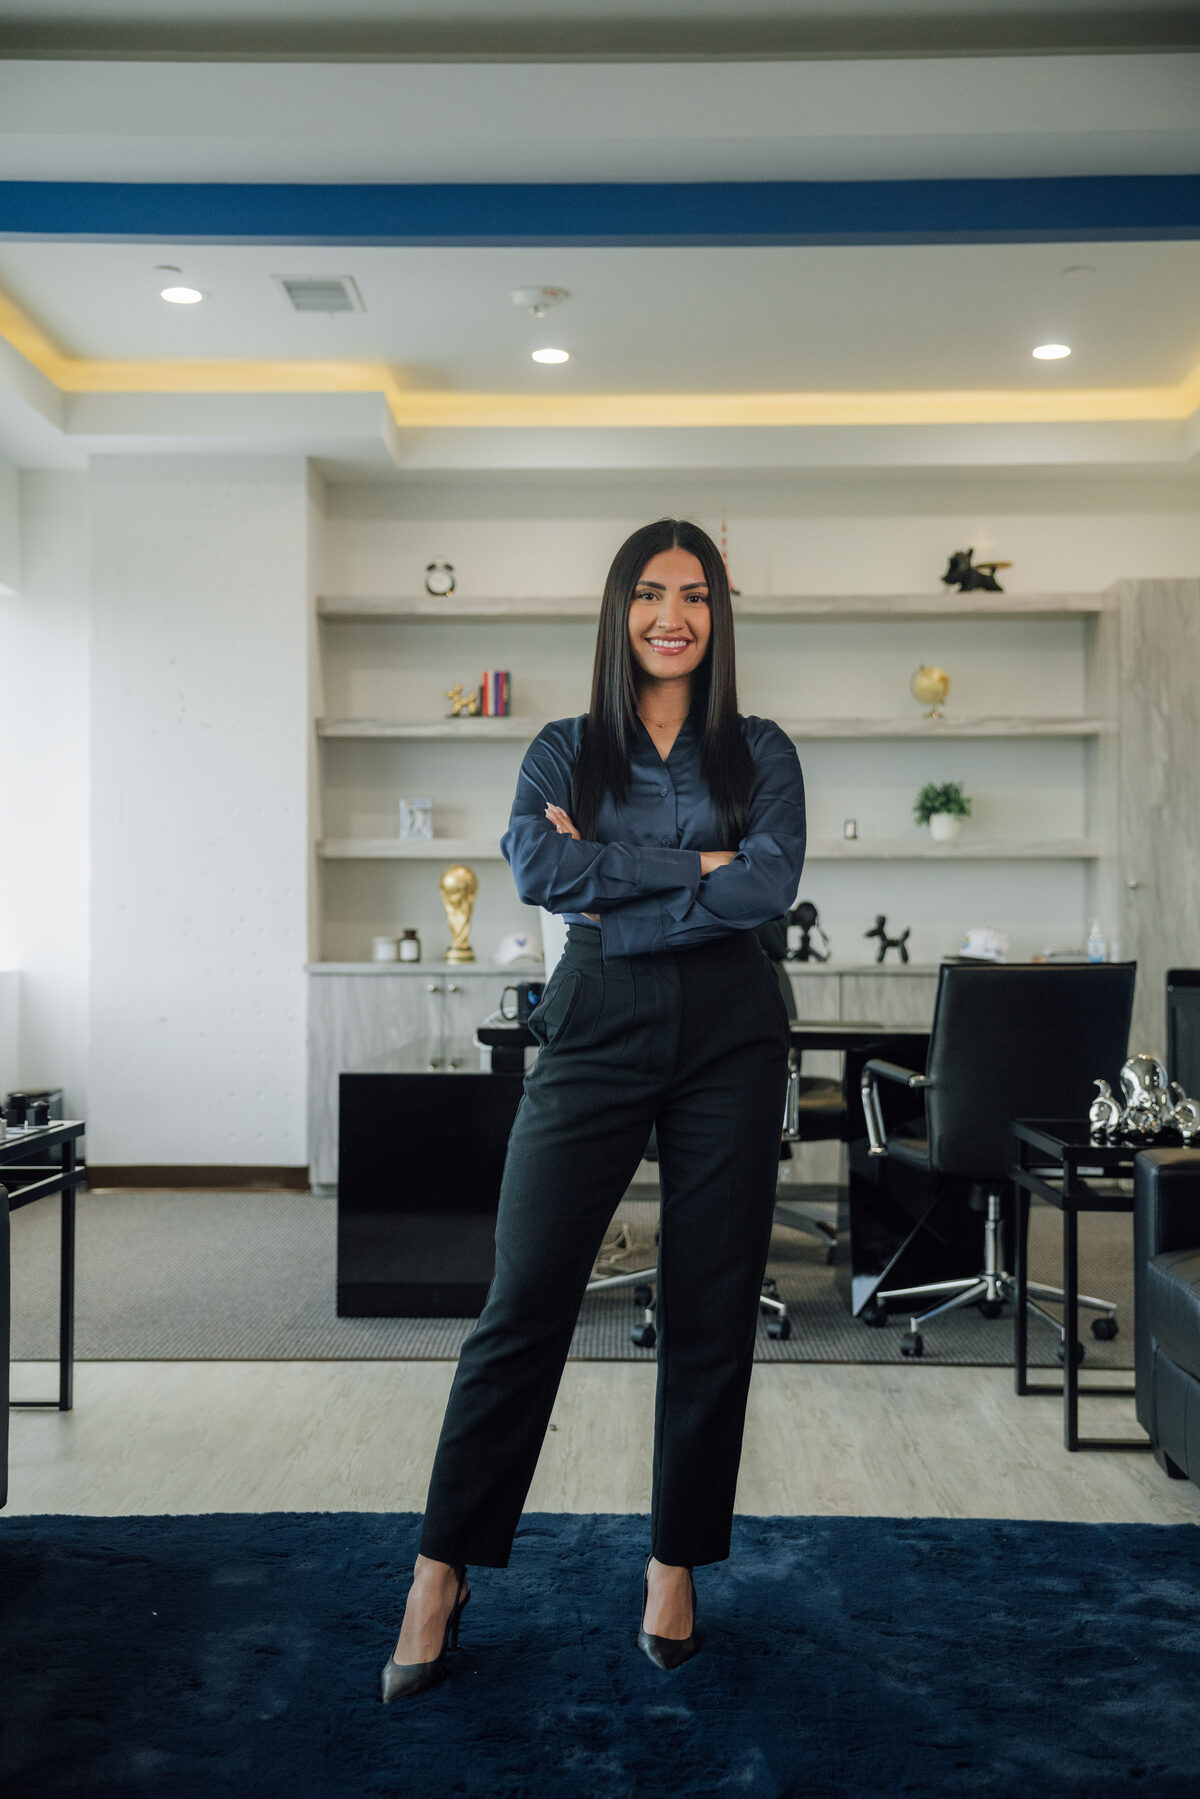
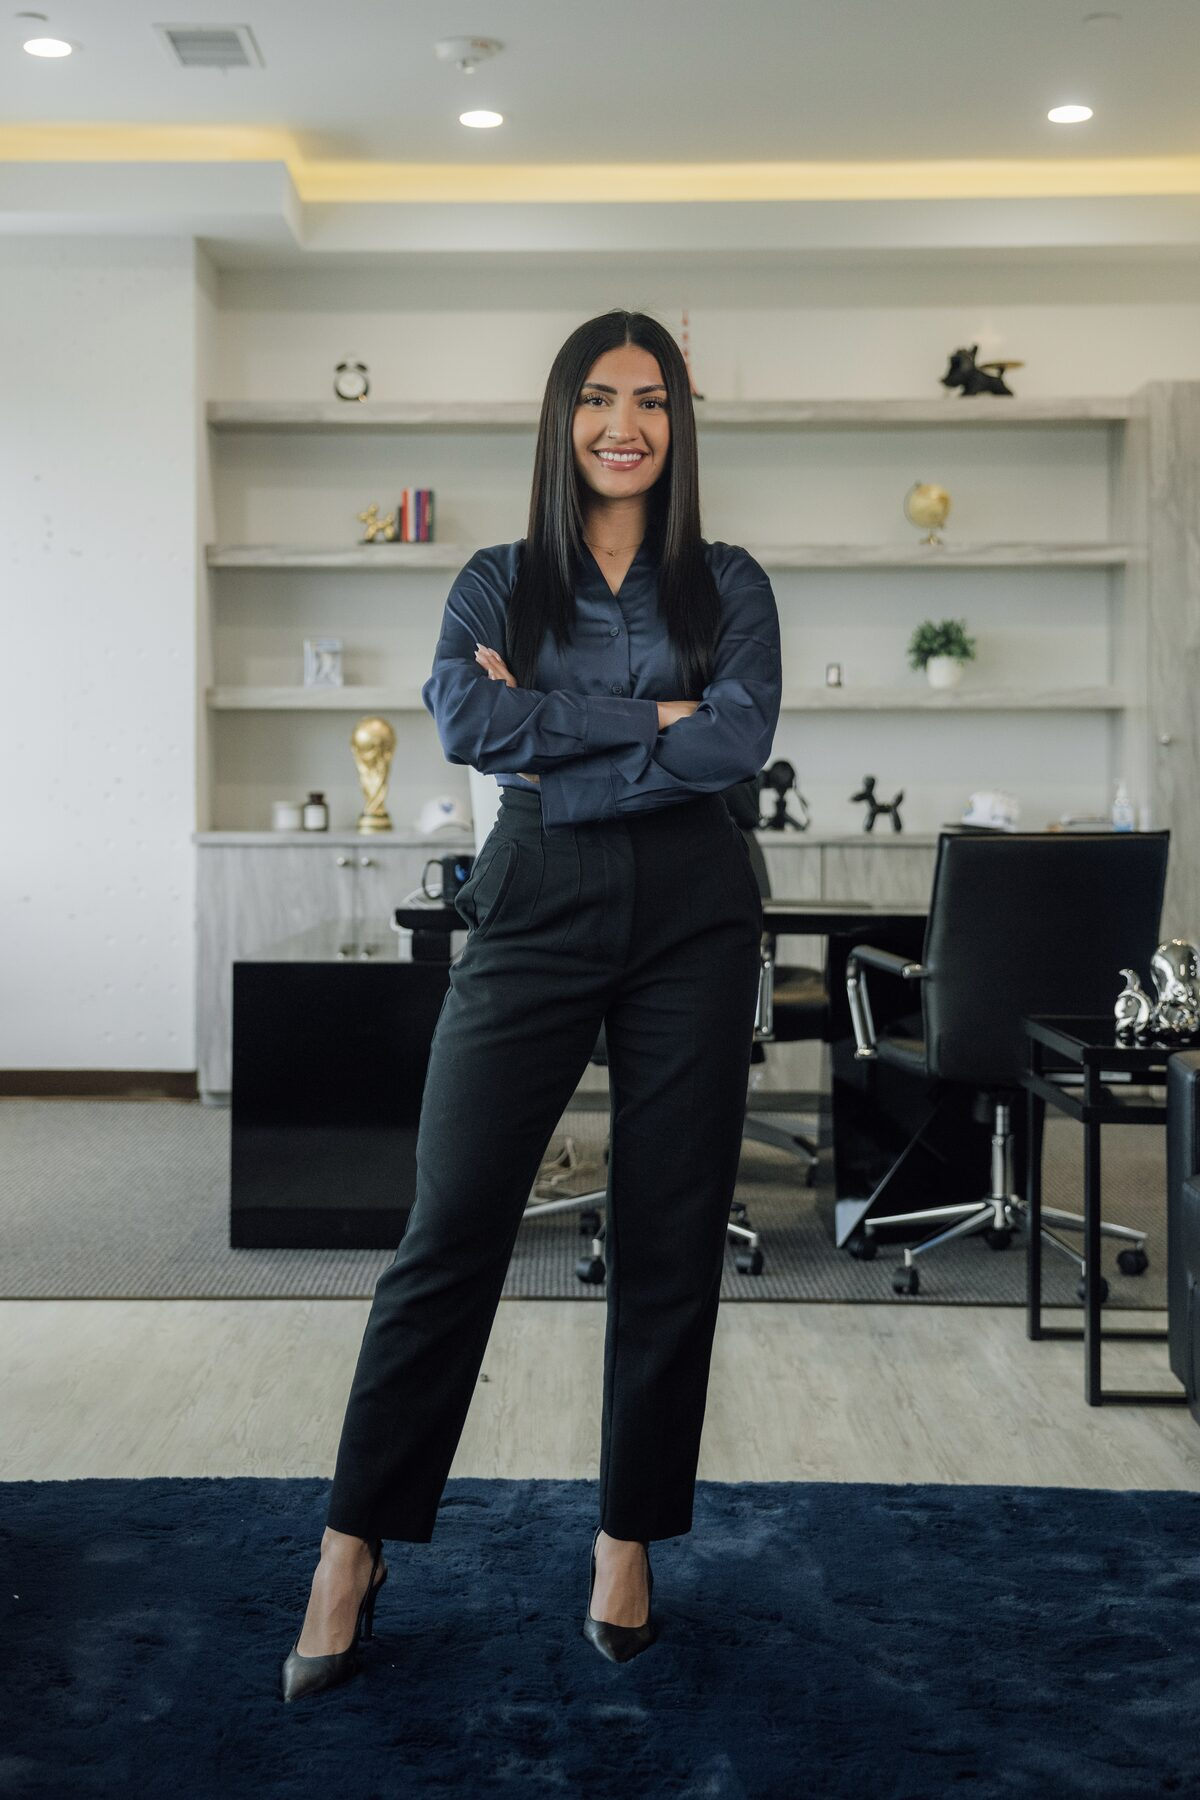
Add headshot and updated photo crop

diff --git a/index.html b/index.html
@@ -51,7 +51,9 @@
       </div>
     </div>
     <div class="hero-photo">
-      <div class="hero-photo-placeholder"></div>
+      <div class="hero-photo-placeholder">
+        <img src="assets/andrea-headshot.jpg" alt="Andrea Esparza, CEO and Founder of Andrea Accident" />
+      </div>
     </div>
   </div>
   <div class="hero-line" aria-hidden="true">
@@ -170,7 +172,7 @@
       <div class="photo-placeholder">
         <img src="assets/team-photo-opt.jpg" alt="Andrea Accident team member" />
       </div>
-      <p class="about-photo-caption"><strong>[Name]</strong>[Title — e.g. Client Advocate, Case Manager]</p>
+      <p class="about-photo-caption"><strong>Andrea Esparza</strong>CEO & Founder, Andrea Accident</p>
     </div>
     <div class="about-content">
       <p class="eyebrow eyebrow-dark">About Us</p>

diff --git a/styles.css b/styles.css
@@ -183,11 +183,16 @@ h1, h2, h3 { font-family: var(--display); font-weight: 600; line-height: 1.1; le
 }
 .hero-photo-placeholder {
   aspect-ratio: 4/5;
-  background: linear-gradient(0deg, rgba(16,25,43,0.35), rgba(16,25,43,0.05)), url('assets/houston-skyline-opt.webp');
-  background-size: cover;
-  background-position: center 60%;
-  border: 1px solid rgba(255,255,255,0.15);
   border-radius: 8px;
+  overflow: hidden;
+  border: 1px solid rgba(255,255,255,0.15);
+}
+.hero-photo-placeholder img {
+  width: 100%;
+  height: 100%;
+  object-fit: cover;
+  object-position: top center;
+  display: block;
 }
 
 /* ===== RESULTS ===== */
